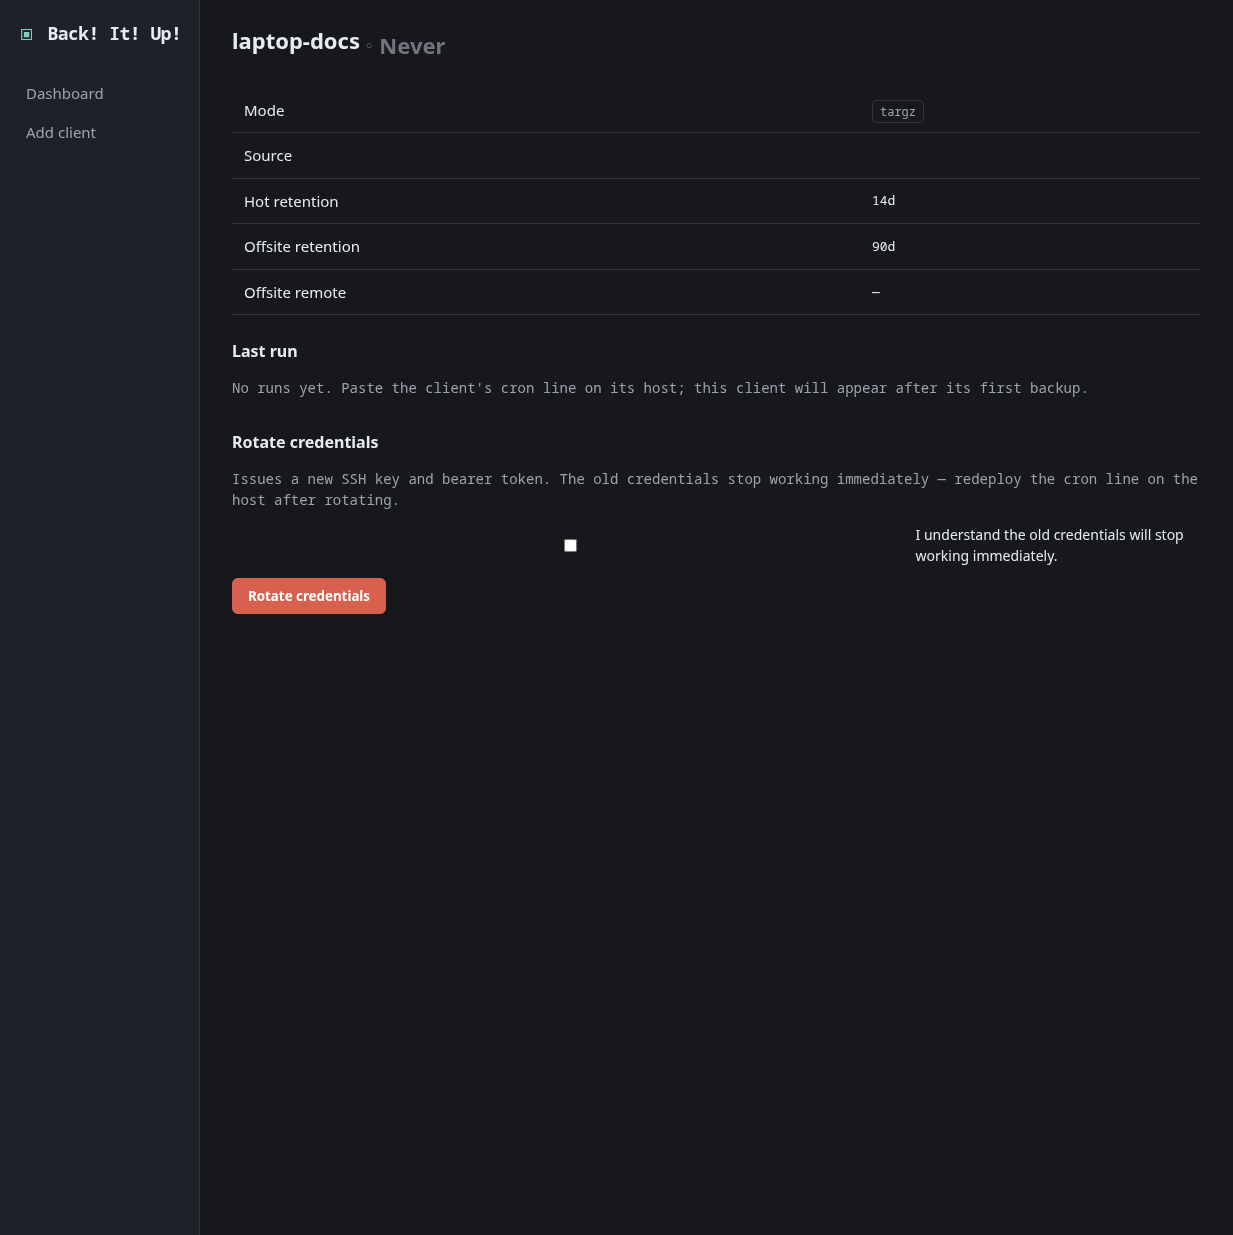
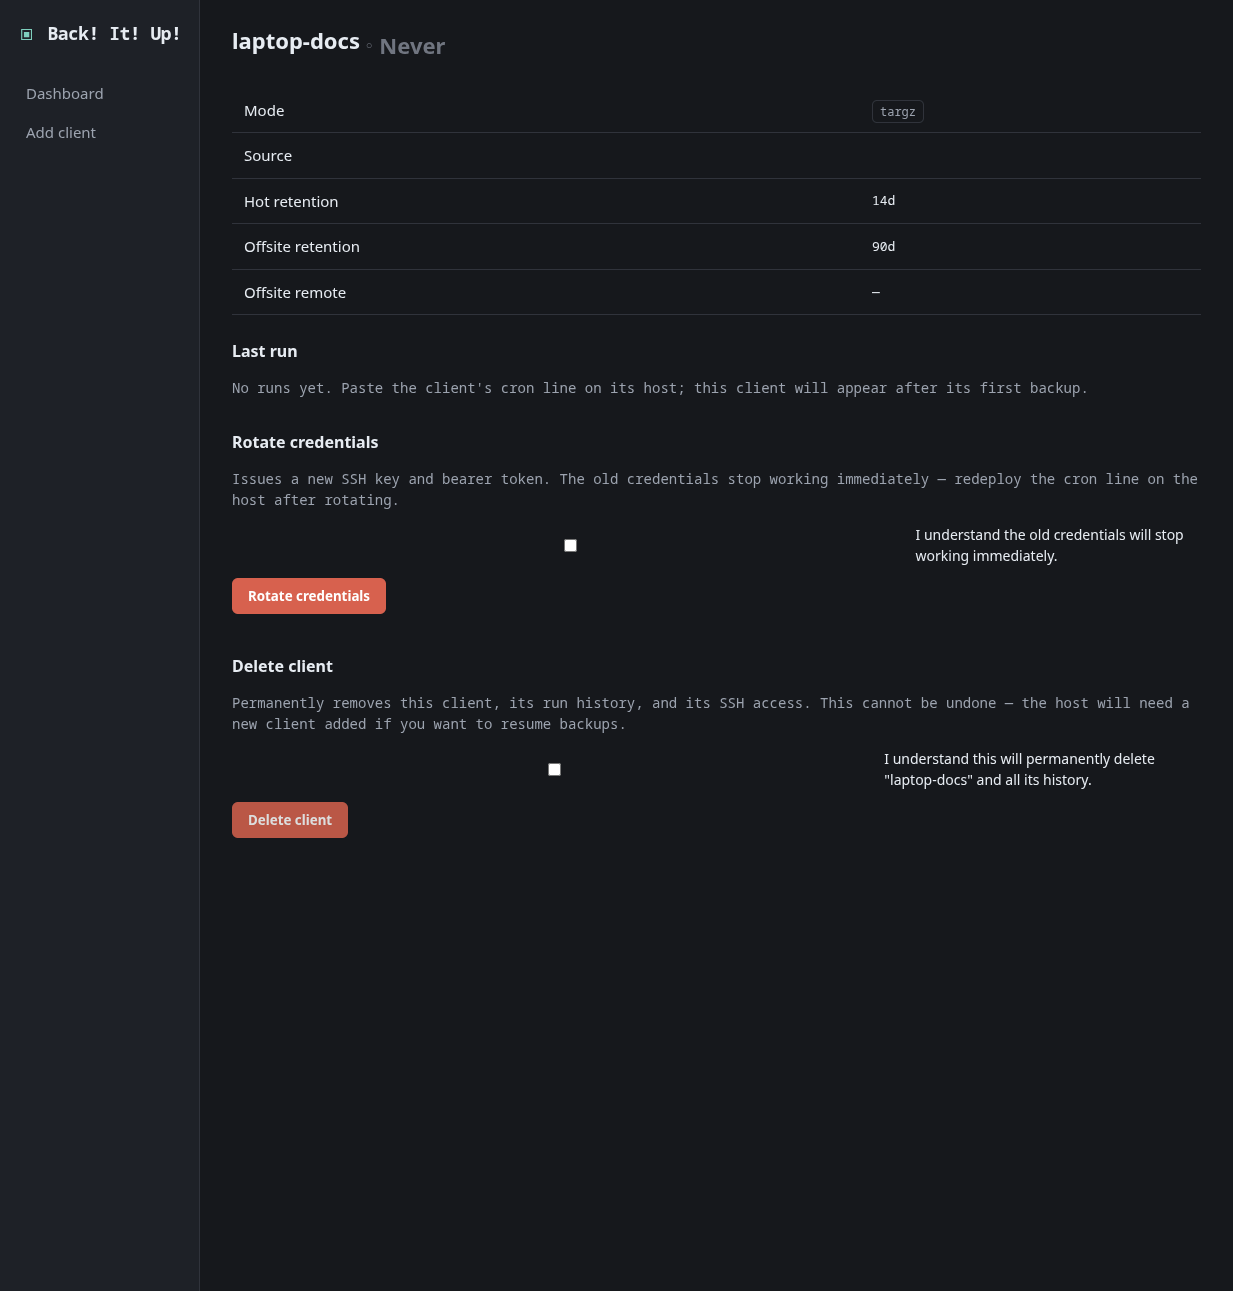
feat: delete client via POST /clients/{id}/delete
Adds a confirmed delete flow to the client detail page. On confirmation:
- Removes the client and all run history (FK cascade)
- Regenerates authorized_keys so the SSH access is revoked immediately
- Redirects to the dashboard

Three new tests: happy path (client gone, key removed from authorized_keys),
unknown ID → 404, unauthenticated → 303 /login. Screenshot updated.

diff --git a/internal/server/templates/client_detail.html b/internal/server/templates/client_detail.html
@@ -49,6 +49,16 @@
         </label>
         <button type="submit" class="btn" style="margin-top:12px;background:var(--failed);color:#fff">Rotate credentials</button>
       </form>
+
+      <h2 style="margin-top:40px">Delete client</h2>
+      <p class="summary">Permanently removes this client, its run history, and its SSH access. This cannot be undone — the host will need a new client added if you want to resume backups.</p>
+      <form method="POST" action="/clients/{{.Client.ID}}/delete" style="margin-top:12px">
+        <label style="display:flex;align-items:center;gap:8px;font-size:14px;cursor:pointer">
+          <input type="checkbox" name="confirm" value="1" required>
+          I understand this will permanently delete "{{.Client.Name}}" and all its history.
+        </label>
+        <button type="submit" class="btn" style="margin-top:12px;background:var(--failed);color:#fff;opacity:0.85">Delete client</button>
+      </form>
     </main>
   </div>
 </body>

diff --git a/internal/server/lane_a_test.go b/internal/server/lane_a_test.go
@@ -376,4 +376,77 @@ func TestRotateClientInvalidatesOldToken(t *testing.T) {
 	}
 }
 
+func TestDeleteClientFlow(t *testing.T) {
+	st, ts, authKeys := ingestStack(t)
+	ctx := context.Background()
+
+	id, err := st.CreateClient(ctx, model.Client{
+		Name: "bye", Mode: model.ModeTarGz, RetentionDays: 7,
+		SSHPubKey: "ssh-ed25519 AAAA bye", TokenHash: "hash", Enabled: true,
+	})
+	if err != nil {
+		t.Fatalf("create: %v", err)
+	}
+
+	c := loggedInClient(t, st, ts)
+
+	// Confirm required.
+	r, err := c.PostForm(ts.URL+"/clients/"+itoa(id)+"/delete", url.Values{})
+	if err != nil {
+		t.Fatalf("post: %v", err)
+	}
+	r.Body.Close()
+	if r.StatusCode != http.StatusBadRequest {
+		t.Fatalf("missing confirm = %d, want 400", r.StatusCode)
+	}
+
+	// Happy path: delete with confirmation → redirect to dashboard.
+	r2, err := c.PostForm(ts.URL+"/clients/"+itoa(id)+"/delete", url.Values{"confirm": {"1"}})
+	if err != nil {
+		t.Fatalf("delete: %v", err)
+	}
+	r2.Body.Close()
+	if r2.StatusCode != http.StatusOK {
+		t.Fatalf("delete status = %d, want 200 (after redirect)", r2.StatusCode)
+	}
+
+	// Client must be gone from the store.
+	got, err := st.GetClient(ctx, id)
+	if err != nil || got != nil {
+		t.Fatalf("client still exists after delete: %+v, err %v", got, err)
+	}
+
+	// authorized_keys must have been regenerated (empty now).
+	data, _ := os.ReadFile(authKeys)
+	if strings.Contains(string(data), "ssh-ed25519 AAAA bye") {
+		t.Fatal("deleted client's key still in authorized_keys")
+	}
+}
+
+func TestDeleteClientUnknown(t *testing.T) {
+	st, ts, _ := ingestStack(t)
+	c := loggedInClient(t, st, ts)
+	r, err := c.PostForm(ts.URL+"/clients/99999/delete", url.Values{"confirm": {"1"}})
+	if err != nil {
+		t.Fatalf("post: %v", err)
+	}
+	r.Body.Close()
+	if r.StatusCode != http.StatusNotFound {
+		t.Fatalf("unknown delete = %d, want 404", r.StatusCode)
+	}
+}
+
+func TestDeleteClientRequiresAuth(t *testing.T) {
+	_, ts, _ := ingestStack(t)
+	c := noRedirectClient()
+	r, err := c.PostForm(ts.URL+"/clients/1/delete", url.Values{"confirm": {"1"}})
+	if err != nil {
+		t.Fatalf("post: %v", err)
+	}
+	r.Body.Close()
+	if r.StatusCode != http.StatusSeeOther || r.Header.Get("Location") != "/login" {
+		t.Fatalf("unauth delete = %d -> %q; want 303 -> /login", r.StatusCode, r.Header.Get("Location"))
+	}
+}
+
 func itoa(n int64) string { return strconv.FormatInt(n, 10) }

diff --git a/internal/server/clients.go b/internal/server/clients.go
@@ -184,6 +184,44 @@ func (s *Server) postRotateClient(w http.ResponseWriter, r *http.Request) {
 	})
 }
 
+// postDeleteClient removes a client and all its run history, regenerates
+// authorized_keys, then redirects to the dashboard.
+func (s *Server) postDeleteClient(w http.ResponseWriter, r *http.Request) {
+	id, err := strconv.ParseInt(r.PathValue("id"), 10, 64)
+	if err != nil {
+		http.NotFound(w, r)
+		return
+	}
+	if err := r.ParseForm(); err != nil {
+		http.Error(w, "invalid form", http.StatusBadRequest)
+		return
+	}
+	if r.PostFormValue("confirm") != "1" {
+		http.Error(w, "confirmation required", http.StatusBadRequest)
+		return
+	}
+
+	ctx, cancel := context.WithTimeout(r.Context(), 5*time.Second)
+	defer cancel()
+
+	if err := s.st.DeleteClient(ctx, id); err != nil {
+		if strings.Contains(err.Error(), "not found") {
+			http.NotFound(w, r)
+			return
+		}
+		http.Error(w, "delete failed", http.StatusInternalServerError)
+		return
+	}
+
+	akCtx, akCancel := context.WithTimeout(context.Background(), 5*time.Second)
+	defer akCancel()
+	if err := s.regenAuthorizedKeys(akCtx); err != nil {
+		log.Printf("authkeys regenerate failed after delete client %d: %v", id, err)
+	}
+
+	http.Redirect(w, r, "/", http.StatusSeeOther)
+}
+
 // generateClientCreds generates a new SSH keypair and bearer token for the
 // named client, writing errors directly to w. Returns ok=false on any error.
 func generateClientCreds(w http.ResponseWriter, name string) (privPEM, pubLine, token, tokenHash string, ok bool) {

diff --git a/internal/store/store_test.go b/internal/store/store_test.go
@@ -150,6 +150,38 @@ func TestRotateClientCreds(t *testing.T) {
 	}
 }
 
+func TestDeleteClient(t *testing.T) {
+	st, err := Open(filepath.Join(t.TempDir(), "test.db"))
+	if err != nil {
+		t.Fatalf("open: %v", err)
+	}
+	defer func() { _ = st.Close() }()
+	ctx := context.Background()
+
+	id, err := st.CreateClient(ctx, model.Client{Name: "del-me", Mode: model.ModeTarGz, Enabled: true})
+	if err != nil {
+		t.Fatalf("create: %v", err)
+	}
+
+	if err := st.DeleteClient(ctx, id); err != nil {
+		t.Fatalf("delete: %v", err)
+	}
+
+	// Client must be gone.
+	got, err := st.GetClient(ctx, id)
+	if err != nil {
+		t.Fatalf("get after delete: %v", err)
+	}
+	if got != nil {
+		t.Fatalf("expected nil after delete, got %+v", got)
+	}
+
+	// Deleting a nonexistent client must return an error.
+	if err := st.DeleteClient(ctx, 9999); err == nil {
+		t.Fatal("expected error for missing client, got nil")
+	}
+}
+
 func TestUniqueClientName(t *testing.T) {
 	st, err := Open(filepath.Join(t.TempDir(), "test.db"))
 	if err != nil {

diff --git a/internal/store/store.go b/internal/store/store.go
@@ -276,6 +276,20 @@ func (s *Store) RotateClientCreds(ctx context.Context, id int64, pubKey, tokenHa
 	return nil
 }
 
+// DeleteClient removes a client and all its run history (cascaded by FK).
+// Returns an error if the client does not exist.
+func (s *Store) DeleteClient(ctx context.Context, id int64) error {
+	res, err := s.db.ExecContext(ctx, `DELETE FROM clients WHERE id=?`, id)
+	if err != nil {
+		return fmt.Errorf("delete client: %w", err)
+	}
+	n, _ := res.RowsAffected()
+	if n == 0 {
+		return fmt.Errorf("client %d: not found", id)
+	}
+	return nil
+}
+
 // PruneRuns deletes run records older than keepDays for a client (0 = keep all).
 func (s *Store) PruneRuns(ctx context.Context, clientID int64, keepDays int) (int64, error) {
 	if keepDays <= 0 {

diff --git a/internal/server/server.go b/internal/server/server.go
@@ -89,6 +89,7 @@ func (s *Server) Handler() http.Handler {
 	mux.HandleFunc("POST /clients", s.requireAdmin(s.postClients))
 	mux.HandleFunc("GET /clients/{id}", s.requireAdmin(s.getClient))
 	mux.HandleFunc("POST /clients/{id}/rotate", s.requireAdmin(s.postRotateClient))
+	mux.HandleFunc("POST /clients/{id}/delete", s.requireAdmin(s.postDeleteClient))
 
 	// Client API (bearer token), needed by Lane C. Control channel is HTTPS in
 	// production (cmd/server serves TLS when configured).